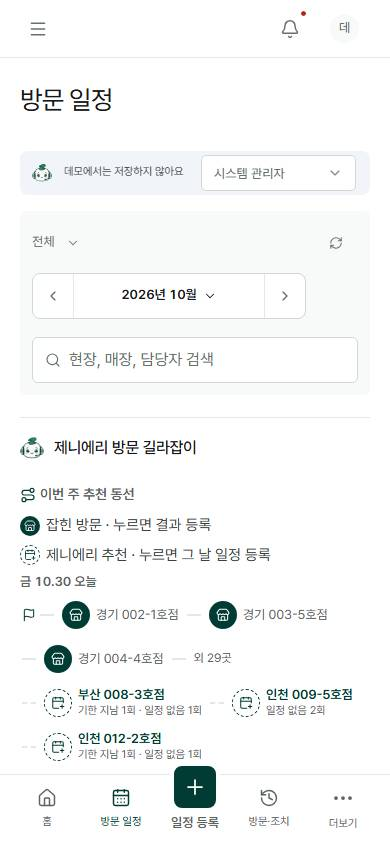
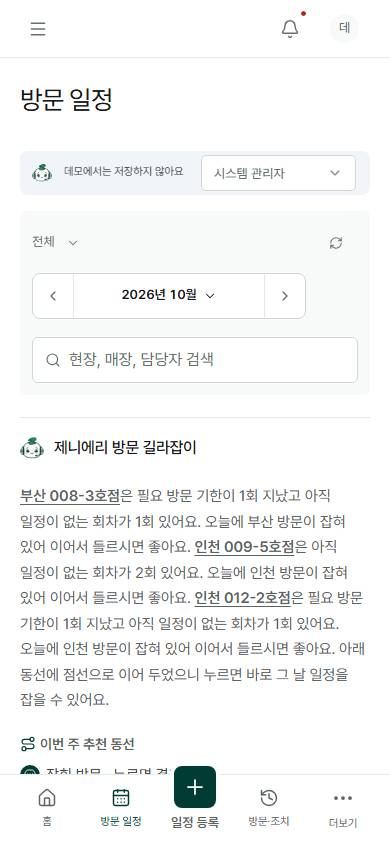
방문 길라잡이 제목 아래 제니에리가 추천 이유를 말함(곳마다 사실·넣기 좋은 날)

Changed region(s): [[0.0308, 0.5545, 0.9231, 0.9242]]

diff --git a/app/platform/page-guide.tsx b/app/platform/page-guide.tsx
@@ -38,11 +38,14 @@ export function ScheduleGuide({c}:{c:Context}){
    stops.sort((x,y)=>x.region.localeCompare(y.region));return {d,label:label(d),stops,regions:new Set(stops.map(s=>s.region).filter(Boolean))}});
   const att=attentionOf(targetFacts(c.scope,c.visits,c.actions,c.allMetrics.slots,c.now).values()).filter(x=>!x.upcoming&&(x.delayed.length||x.unplanned.length)).slice(0,3);
   const add=att.map(x=>{const t=x.target,same=byDay.find(d=>t.region&&d.regions.has(t.region)),empty=byDay.find(d=>!d.stops.length),day=same||empty||byDay[0];
-   return {x,t,day,why:same?`${t.region} 방문과 함께`:empty?'빈 날':'가까운 날'}});
+   const fact=[x.delayed.length&&`필요 방문 기한이 ${x.delayed.length}회 지났`,x.unplanned.length&&`아직 일정이 없는 회차가 ${x.unplanned.length}회 있`].filter(Boolean).join('고 ')+'어요',day0=day.d===c.now?'오늘':day.label;
+   const when=same?`${day0}에 ${t.region} 방문이 잡혀 있어 이어서 들르시면 좋아요`:empty?`${day0}${eul(day0)==='을'?'이':'가'} 비어 있어 넣기 좋아요`:`가장 가까운 ${day0}에 넣어 보시면 좋아요`;
+   return {x,t,day,fact,when,why:same?`${t.region} 방문과 함께`:empty?'빈 날':'가까운 날'}});
   return {byDay:byDay.filter(d=>d.stops.length||add.some(a=>a.day.d===d.d)),add}},[c.visits,c.actions,c.scope,c.allMetrics,c.now]);
  return <section className="panel ai-brief action-brief route-guide" aria-label="제니에리 방문 길라잡이">
   <div className="panel-heading"><div><h2><AiMark/>제니에리 방문 길라잡이</h2></div></div>
   <div className="chart-body"><div className="ai-brief-out">
+   {g.add.length>0&&<p className="route-why">{g.add.map(({t,fact,when},i)=><Fragment key={t.id}>{i>0&&' '}<button type="button" className="zf-ent-link" onClick={()=>c.showTarget(t.id)}>{t.name}</button>{eul(t.name)==='을'?'은':'는'} {fact}. {when}.</Fragment>)} 아래 동선에 점선으로 이어 두었으니 누르면 바로 그 날 일정을 잡을 수 있어요.</p>}
    <section><h3><Route size={16} aria-hidden/>이번 주 추천 동선</h3><p className="route-legend"><span><i aria-hidden><Store size={12}/></i>잡힌 방문 · 누르면 결과 등록</span><span><i className="add" aria-hidden><CalendarPlus size={12}/></i>제니에리 추천 · 누르면 그 날 일정 등록</span></p>
     {g.byDay.length?<ol className="route-map">{g.byDay.map(d=>{const adds=g.add.filter(a=>a.day.d===d.d);return <li key={d.d}><b>{d.label}</b><ol className="route-line"><li className="start" aria-hidden><Flag size={14}/></li>{d.stops.slice(0,3).map((st,i)=><li key={st.name}><button type="button" title={st.name+' 방문 결과 등록'} aria-label={d.label+' '+(i+1)+'번째 '+st.name+' 방문 결과 등록'} onClick={()=>c.open('visit',st.v,{result:true})}><i aria-hidden>{st.store?<Store size={14}/>:<Building2 size={14}/>}</i><span>{st.name}</span></button></li>)}{d.stops.length>3&&<li className="more"><span>외 {d.stops.length-3}곳</span></li>}{adds.map(({x,t,why})=>{const need=[x.delayed.length&&`기한 지남 ${x.delayed.length}회`,x.unplanned.length&&`일정 없음 ${x.unplanned.length}회`].filter(Boolean).join(' · ');return <li key={t.id} className="add"><button type="button" title={`${t.name} · ${need} · ${why}`} aria-label={`제니에리 추천 ${t.name}, ${need}, ${d.label} 일정 등록`} onClick={()=>c.open('visit',undefined,{targetType:t.type,siteId:t.siteId,storeId:t.storeId||undefined,date:d.d})}><i aria-hidden><CalendarPlus size={14}/></i><span>{t.name}<small>{need}</small></span></button></li>})}</ol></li>})}</ol>:<p>이번 주 달력에 남은 방문이 없어요. 방문 일정 등록에서 먼저 가 보면 좋은 곳을 보여 드릴게요.</p>}</section>
   </div></div>

diff --git a/app/platform/styles.css b/app/platform/styles.css
@@ -1037,3 +1037,4 @@
 .route-line .add small{font-size:11px;font-weight:400;color:var(--zf-text-secondary)}
 .route-line>li.add::before{background:none;border-top:2px dashed var(--zf-border);height:0}
 .ai-brief-out p.route-legend{font-size:12px;line-height:1.5;max-width:none}
+.ai-brief-out p.route-why{margin:0 0 16px;font-size:15px;line-height:1.7;max-width:var(--zf-read-measure)}.route-why .zf-ent-link{white-space:normal;display:inline;font-weight:600}

diff --git a/PROJECT_RULE.md b/PROJECT_RULE.md
@@ -45,7 +45,7 @@
 | DC-DESIGN-ZENIERI | AI 표시 = `AiMark`(`zenieri-chatbot.png`, 24/20/44px) 하나. 문장 = 제니에리 해요체 완결 문장·직함 호칭, 메모체·콜론 나열 금지(AI `briefPrompt`·규칙 `ruleBrief` 모두). 권한 안내는 거부 때만. 지침 9-B |
 | DC-DESIGN-BRIEF | 브리핑 = 제목 `제니에리가 정리해서 말씀드려요`·누구 이야기 → 무슨 일(한 문단) → 어디에 무엇이(요약+자세히 보기) → 이렇게 챙겨 보세요(보는 사람 관리 가이드·넘기는 지시 금지·복사) → 더 보기(이행 가이드+복사·전할 말·다음 주·근거·AI 고지). 칸 제목 14px·600+16px 아이콘, 상태 칩 하나+작성 중 가림막. 저장본 키 사용자·직급별·로그아웃 삭제. 지침 9-B |
 | DC-DESIGN-DASHBOARD | 모든 직급 같은 구성: H1 아래 기준 시각 → `ZeniCheer`(보는 범위 사실·자기 과거 비교·직함 호칭) → 브리핑 → 범위·탭 → 지표 4개 → 차트 한 쌍(조직 공백표 + 주별 이행률 꺾은선·축 하나) → 오늘·이번 주·안 끝난 조치 5줄+전체 보기. 누적 막대·이중 축·도넛·게이지·중복 차트·조직 순위 금지. 지침 6.1 |
-| DC-DESIGN-SCHEDULE | 방문 일정 맨 위 = 방문 길라잡이(이번 주 추천 동선 그림 하나: 잡힌 방문 채운 점 = 결과 등록, 제니에리 추천 점선 점 = 그 날 일정 등록, 별도 추천 목록 금지·여기도 넣어 보세요+넣기 좋은 날), 브리핑·`무슨 일` 문단 금지. 일정 등록 추천은 `briefPlaces`로 브리핑 연결(말풍선·꼬리표·맨 앞). 추천 정렬 칩 급한 순(attentionOf)·오래 못 간 순·지역별·밀린 조치(사실 정렬, 점수 금지). 브리핑 가이드 줄 버튼은 줄 끝(1023px 이하 문장 아래). 방문 일정 기본: 잡매니저 월간 / 파트장 이상 단위×요일 주간. 등록 = `VisitSuggest`(먼저 가 보면 좋은 곳 5곳: 왜·주기·마지막 방문·확인할 것·같은 날 함께, `attentionOf`→`staleStores`, 사전 확인사항 빈칸 채움) → 7일 빈 날 → `schedule.ts` 후보 5개. 사람이 고른 값 우선 |
+| DC-DESIGN-SCHEDULE | 방문 일정 맨 위 = 방문 길라잡이(이번 주 추천 동선 그림 하나: 잡힌 방문 채운 점 = 결과 등록, 제니에리 추천 점선 점 = 그 날 일정 등록, 별도 추천 목록 금지, 제목 아래 추천 이유 문단·여기도 넣어 보세요+넣기 좋은 날), 브리핑·`무슨 일` 문단 금지. 일정 등록 추천은 `briefPlaces`로 브리핑 연결(말풍선·꼬리표·맨 앞). 추천 정렬 칩 급한 순(attentionOf)·오래 못 간 순·지역별·밀린 조치(사실 정렬, 점수 금지). 브리핑 가이드 줄 버튼은 줄 끝(1023px 이하 문장 아래). 방문 일정 기본: 잡매니저 월간 / 파트장 이상 단위×요일 주간. 등록 = `VisitSuggest`(먼저 가 보면 좋은 곳 5곳: 왜·주기·마지막 방문·확인할 것·같은 날 함께, `attentionOf`→`staleStores`, 사전 확인사항 빈칸 채움) → 7일 빈 날 → `schedule.ts` 후보 5개. 사람이 고른 값 우선 |
 | DC-DESIGN-RECORDS | 방문 기록 = 표 위 탭 한 줄 단일 선택(전체·먼저 볼 보고·안 끝난 이슈·고객 요청·결과 안 쓴 방문), 기준 `judgment.ts` issueGuide(저장 판정만), 0건 숨김, 줄마다 걸린 이슈. 이슈 종류 묶음·판정 수준 묶음·다단계 필터 금지 |
 | DC-DESIGN-FORM | 입력 폼 = 한 열 기본(짧은 짝 칸만 2열), 라벨 위, 선택 칸 `(선택)` 표시. 금지: 안내 박스·준비 중 기능 안내·구역 번호·같은 안내 중복·선택 칸 접기. 새로 만들 때 진행 상태 칸 숨김, 수시 방문은 예정 시간·사전 확인사항 숨김. 혼자 남는 칸은 한 줄 전체. 갱신 2026-10-30 |
 | DC-DESIGN-PAGE-GUIDE | 방문 일정·방문 기록·후속 조치 맨 위 제니에리 정리(같은 틀: 무슨 일 문단 → 할 일 한 문장 + 3건). 줄 = [대상·내용(열기)] [바로 하기 작은 버튼: 일정 잡기·결과 쓰기] [받는 사람에게 보낼 말 복사 44px] 한 줄. 브리핑 `이렇게 챙겨 보세요`도 같은 바로 하기·복사, 문장 속 현장·매장 이름 링크. `page-guide.tsx`·`action-brief.tsx`. 갱신 2026-10-30 |

diff --git a/AGENTS.md b/AGENTS.md
@@ -75,7 +75,7 @@
 - 한 화면 한 번: 같은 숫자·목록을 두 곳에 두지 않음. 조직 표 순위 정렬 금지.
 
 **방문 일정**
-- 맨 위 `제니에리 방문 길라잡이`(브리핑 반복 금지, 1024px 이상 두 칸): 이번 주 동선 그림(날마다 깃발→현장·매장 아이콘 점을 선으로 잇고 3곳+외 n, 점을 누르면 그 방문 결과 등록) → 여기도 넣어 보세요 3곳(넣기 좋은 날 + `MM.DD에 잡기`·보낼 말).
+- 맨 위 `제니에리 방문 길라잡이`(브리핑 반복 금지): 이번 주 추천 동선 그림 하나(날마다 깃발→잡힌 방문 채운 점 3곳+외 n, 점 = 결과 등록, 이어서 제니에리 추천 점선 점 = 넣기 좋은 날 일정 등록, 범례 한 줄). 별도 추천 목록 없음. 제목 바로 아래 제니에리 문단이 곳마다 추천 이유(사실+넣기 좋은 날)를 말함 → 여기도 넣어 보세요 3곳(넣기 좋은 날 + `MM.DD에 잡기`·보낼 말).
 - 일정 등록 추천: 제니에리 말풍선(브리핑에서 짚은 곳부터 + 이유), 그 곳은 꼬리표·맨 앞(`briefPlaces`).
 - 기본 보기: 잡매니저 월간 / 파트장 이상 하위 단위×요일 주간 달력.
 - 등록(AI 기본·`직접 입력` 전환): 추천 위 정렬 칩(급한 순·오래 못 간 순·지역별·밀린 조치). 대상 고르기 전 `제니에리가 먼저 가 보면 좋은 곳을 골랐어요` 최대 5곳(왜·주기·마지막 방문·확인할 것·같은 날 함께) → 앞 7일 빈 날 칩 → 대상 정하면 사실 한 줄+후보 날짜 5개(`schedule.ts`). 사람이 고른 값 우선, AI 초안은 빈칸만.
